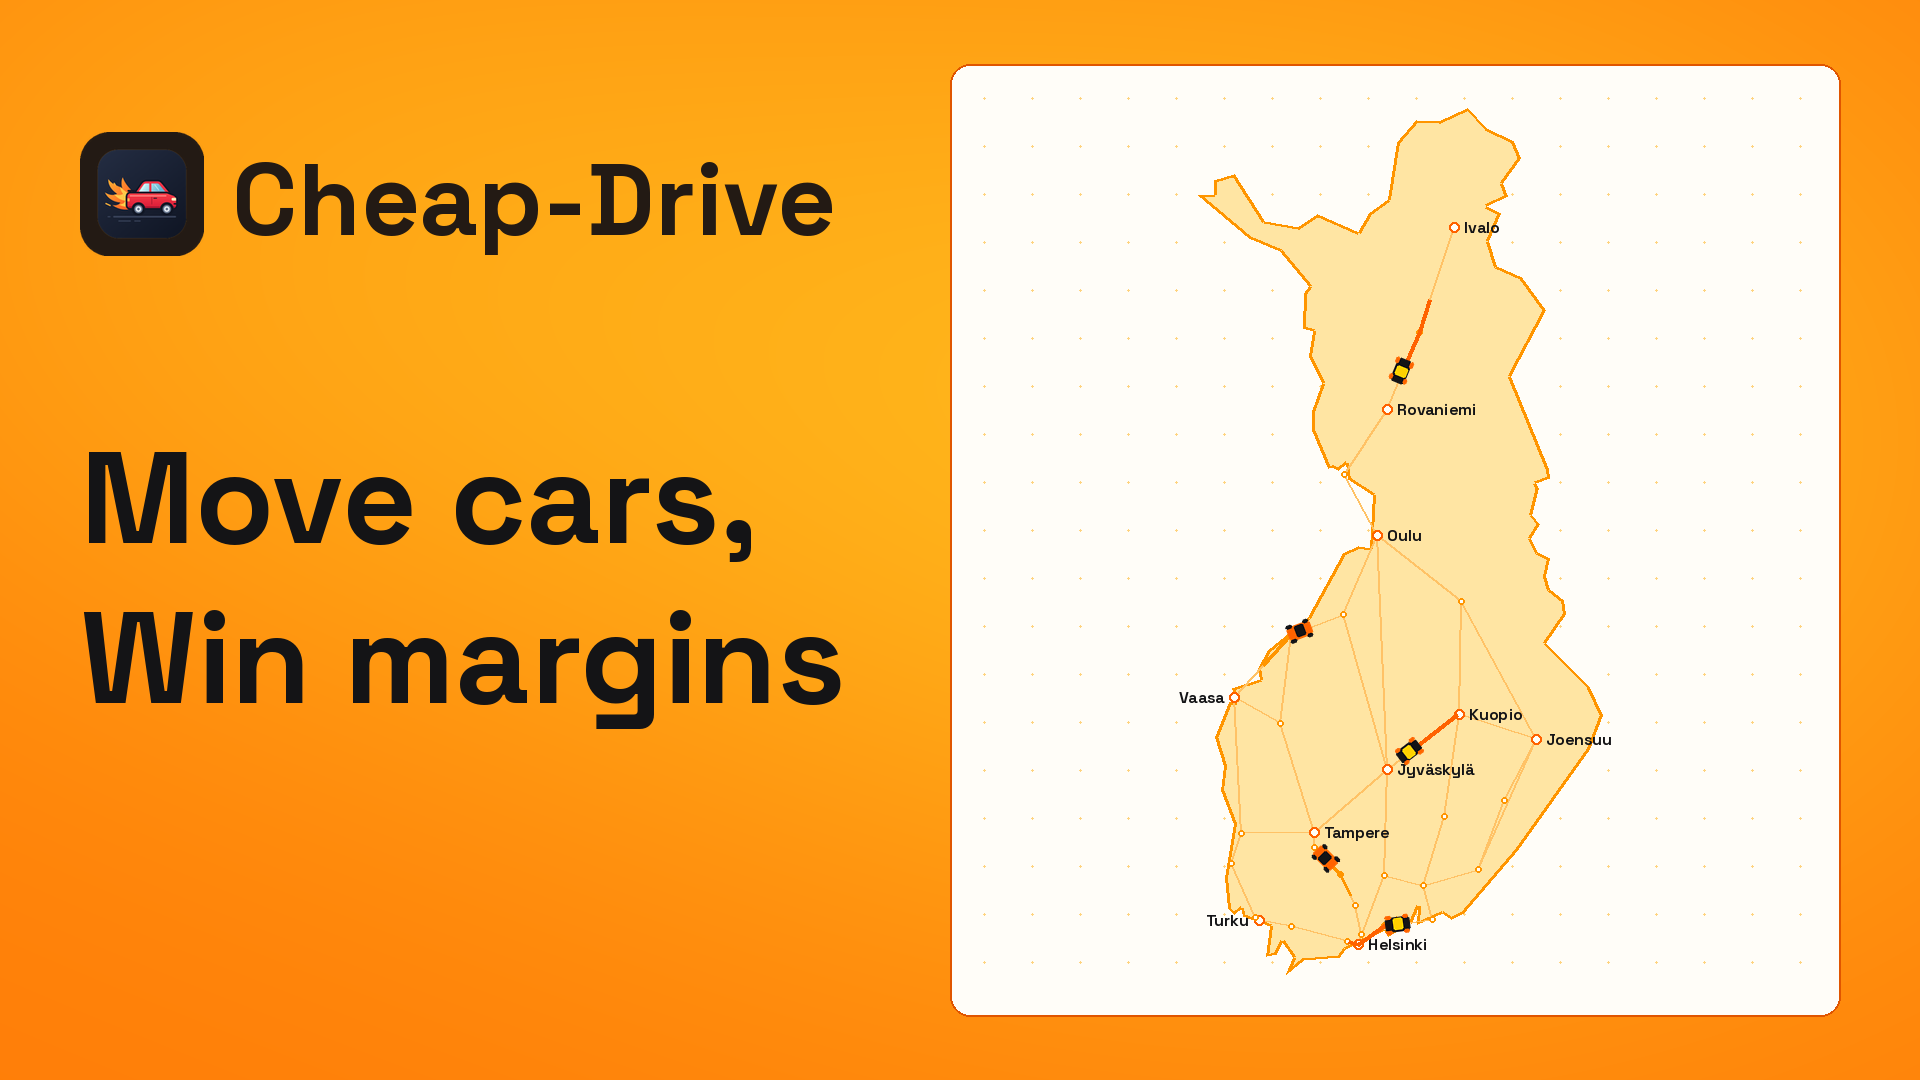
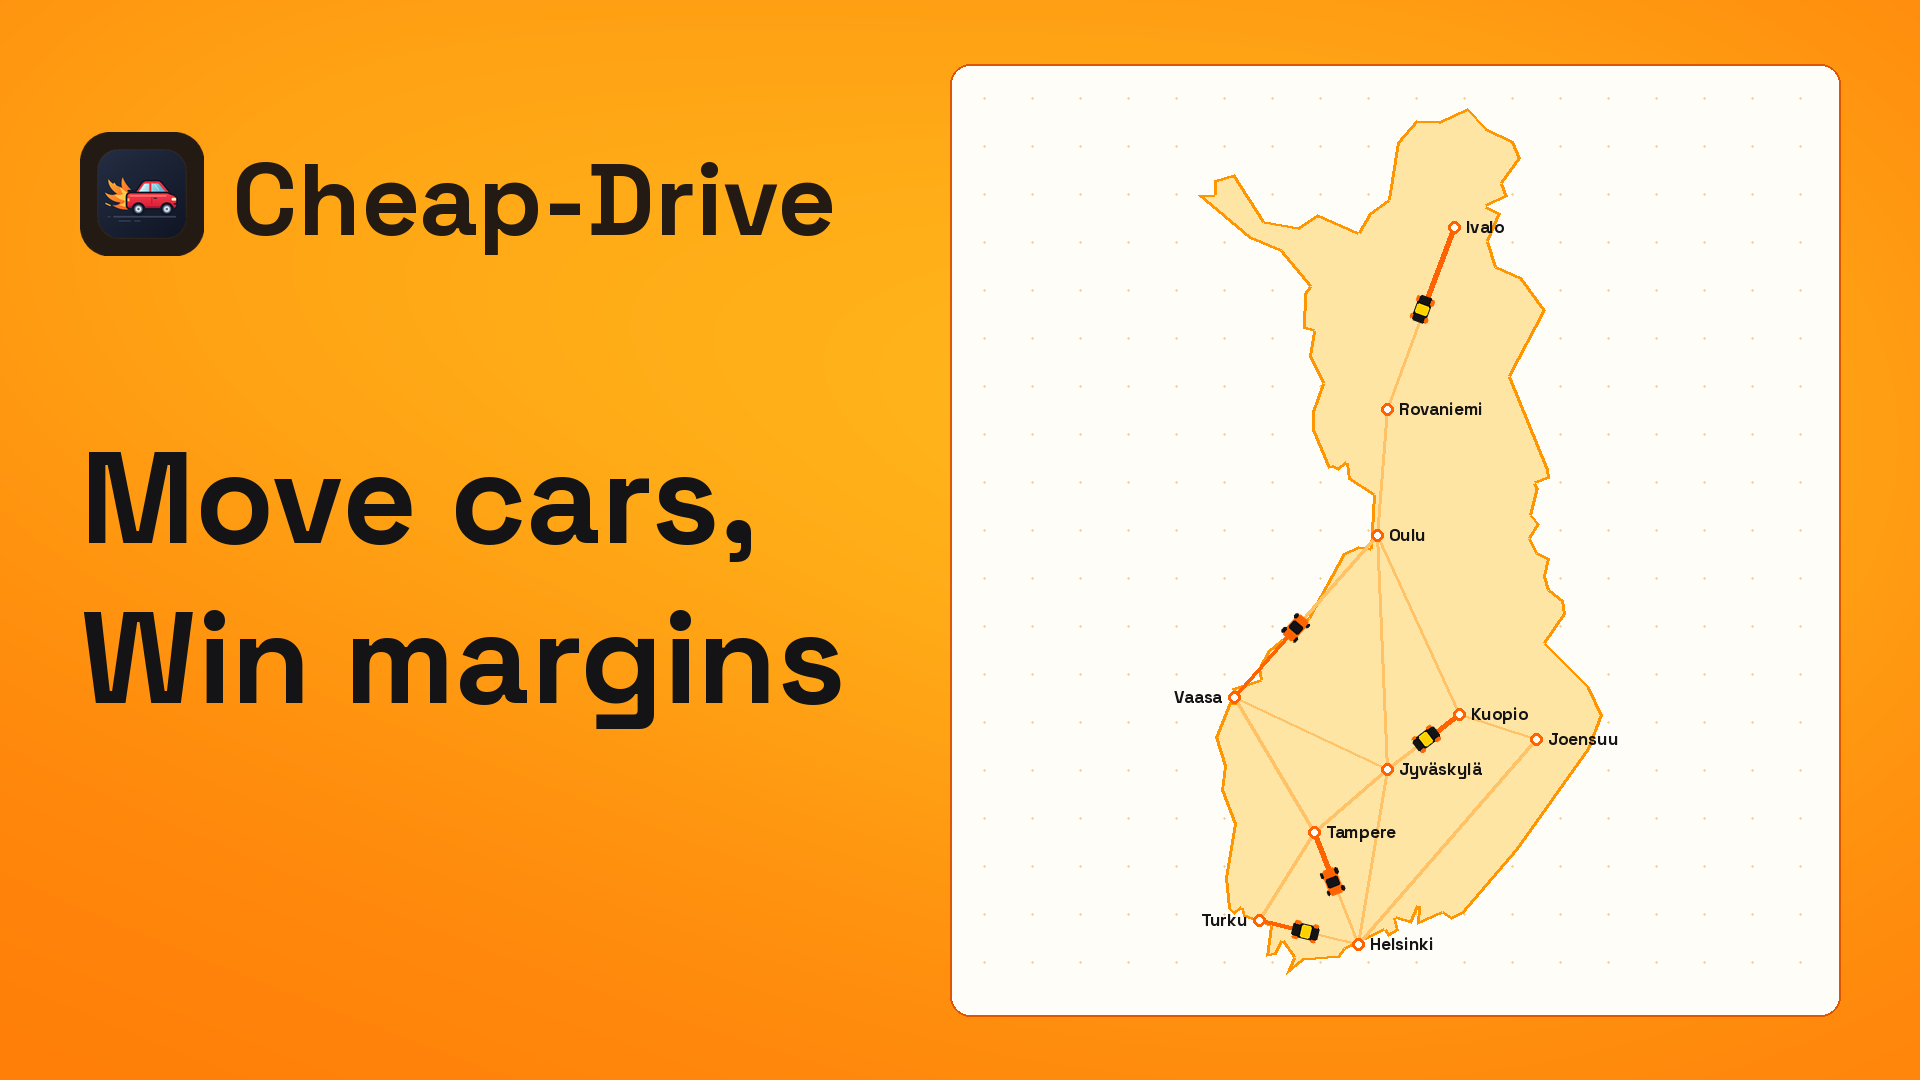
Recolor city-to-city roads from origin to car on Slide 1 and Slide 3

diff --git a/docs/demo-video/index.html b/docs/demo-video/index.html
@@ -40,8 +40,8 @@
 </head>
 <body>
   <main class="stage">
-    <video controls autoplay loop playsinline preload="auto" poster="poster.png?v=1685z" src="cheap-drive-demo.mp4?v=1685z">
-      <track kind="captions" src="captions.vtt?v=1685z" srclang="en" label="English">
+    <video controls autoplay loop playsinline preload="auto" poster="poster.png?v=1685aa" src="cheap-drive-demo.mp4?v=1685aa">
+      <track kind="captions" src="captions.vtt?v=1685aa" srclang="en" label="English">
     </video>
   </main>
 </body>

diff --git a/docs/demo-video/render.py b/docs/demo-video/render.py
@@ -261,11 +261,10 @@ MAP_NODES = [(120, 590), (280, 500), (410, 610), (530, 415), (710, 460), (810, 2
 MAP_EDGES = [(0, 1), (1, 2), (2, 3), (3, 4), (4, 5), (5, 6), (6, 7), (7, 8), (8, 1), (7, 3), (4, 9), (9, 10), (10, 11), (11, 5), (11, 4), (2, 9), (0, 2)]
 
 MAP_TRIPS = [
-    ([0, 1, 7, 6, 5, 11, 10], 0.14, 0.24, INK, True),
-    ([10, 9, 4, 3, 7, 8], 0.28, 0.27, ORANGE, True),
-    ([5, 4, 3, 2, 0], 0.42, 0.22, INK, False),
-    ([8, 1, 2, 9, 10, 11], 0.19, 0.26, ORANGE, False),
-    ([6, 7, 3, 4, 11], 0.55, 0.25, INK, False),
+    ([8, 7, 6, 5], 0.06, 0.12, INK, True),
+    ([0, 1, 3, 4], 0.08, 0.12, ORANGE, True),
+    ([2, 9, 10, 11], 0.05, 0.12, INK, False),
+    ([5, 11], 0.10, 0.11, ORANGE, False),
 ]
 
 
@@ -280,19 +279,19 @@ def network(im, t, box=(820, 100, 1840, 980), active=True, bg=CARD, border=GOLD_
             circle(im, gx, gy, 1, '#FFD480')
     for a, b in MAP_EDGES:
         line(im, [pts[a], pts[b]], '#FFC266', 2)
-    for i, p in enumerate(pts):
-        is_hub = i in [0, 5, 10, 3, 8]
-        circle(im, *p, 7 if is_hub else 5, CARD, ORANGE if is_hub else MANGO, 3 if is_hub else 2)
-    for i in [0, 5, 10, 3]:
-        p = pts[i]
-        circle(im, *p, 13 + 9 * ((t * .85 + i * .3) % 1), None, MARIGOLD, 2)
     if active:
         for t_idx, (nodes, p0, spd, c_col, is_prim) in enumerate(MAP_TRIPS):
             r_path = [pts[k] for k in nodes]
-            p = (p0 + t * spd) % 1.0
-            tail = max(0.0, p - 0.36)
-            path_segment(im, r_path, tail, p, ORANGE if is_prim else MARIGOLD, 5 if is_prim else 4, glow='#FFE066' if is_prim else None)
-            if 0.03 < p < 0.97:
+            p = clamp(p0 + t * spd)
+            path_partial(im, r_path, p, ORANGE if is_prim else MARIGOLD, 5 if is_prim else 4)
+    for i, p in enumerate(pts):
+        is_hub = i in [0, 5, 10, 3, 8]
+        circle(im, *p, 7 if is_hub else 5, CARD, ORANGE if is_hub else MANGO, 3 if is_hub else 2)
+    if active:
+        for t_idx, (nodes, p0, spd, c_col, is_prim) in enumerate(MAP_TRIPS):
+            r_path = [pts[k] for k in nodes]
+            p = clamp(p0 + t * spd)
+            if 0.02 < p < 0.98:
                 q = route_point(r_path, p)
                 ahead = route_point(r_path, min(p + .006, 1.0))
                 heading = math.degrees(math.atan2(ahead[1] - q[1], ahead[0] - q[0]))
@@ -361,27 +360,29 @@ FINLAND_PLACES = {
 }
 
 FINLAND_ROADS = [
-    ('helsinki', 'espoo'), ('espoo', 'salo'), ('salo', 'turku'), ('turku', 'raisio'),
-    ('raisio', 'rauma'), ('rauma', 'pori'), ('pori', 'vaasa'), ('vaasa', 'kokkola'),
-    ('kokkola', 'ylivieska'), ('ylivieska', 'oulu'), ('oulu', 'kemi'), ('kemi', 'rovaniemi'),
-    ('rovaniemi', 'sodankyla'), ('sodankyla', 'ivalo'),
-    ('helsinki', 'vantaa'), ('vantaa', 'hyvinkaa'), ('hyvinkaa', 'hameenlinna'),
-    ('hameenlinna', 'lempaala'), ('lempaala', 'tampere'), ('tampere', 'pori'),
-    ('tampere', 'seinajoki'), ('seinajoki', 'vaasa'), ('seinajoki', 'kokkola'),
-    ('tampere', 'jyvaskyla'), ('helsinki', 'lahti'), ('lahti', 'jyvaskyla'),
-    ('jyvaskyla', 'ylivieska'), ('jyvaskyla', 'oulu'), ('jyvaskyla', 'kuopio'),
-    ('helsinki', 'porvoo'), ('porvoo', 'kotka'), ('kotka', 'kouvola'), ('lahti', 'kouvola'),
-    ('kouvola', 'mikkeli'), ('mikkeli', 'kuopio'), ('kuopio', 'kajaani'), ('kajaani', 'oulu'),
-    ('kouvola', 'lappeenranta'), ('lappeenranta', 'savonlinna'), ('savonlinna', 'joensuu'),
-    ('lappeenranta', 'joensuu'), ('joensuu', 'kuopio'), ('joensuu', 'kajaani'),
+    ('ivalo', 'rovaniemi'),
+    ('rovaniemi', 'oulu'),
+    ('oulu', 'vaasa'),
+    ('oulu', 'jyvaskyla'),
+    ('oulu', 'kuopio'),
+    ('vaasa', 'jyvaskyla'),
+    ('vaasa', 'tampere'),
+    ('kuopio', 'joensuu'),
+    ('kuopio', 'jyvaskyla'),
+    ('joensuu', 'helsinki'),
+    ('jyvaskyla', 'tampere'),
+    ('jyvaskyla', 'helsinki'),
+    ('tampere', 'turku'),
+    ('tampere', 'helsinki'),
+    ('turku', 'helsinki'),
 ]
 
 FINLAND_TRIPS = [
-    (['ivalo', 'sodankyla', 'rovaniemi', 'kemi', 'oulu'], 0.14, 0.14, ORANGE, True),
-    (['vaasa', 'kokkola', 'ylivieska', 'oulu'], 0.08, 0.15, MARIGOLD, False),
-    (['joensuu', 'kuopio', 'jyvaskyla', 'tampere'], 0.20, 0.15, ORANGE, True),
-    (['helsinki', 'hyvinkaa', 'hameenlinna', 'lempaala', 'tampere', 'pori'], 0.12, 0.16, MARIGOLD, False),
-    (['turku', 'salo', 'espoo', 'helsinki', 'porvoo', 'kotka', 'lappeenranta'], 0.28, 0.14, ORANGE, True),
+    (['ivalo', 'rovaniemi'], 0.08, 0.17, ORANGE, True),
+    (['vaasa', 'oulu'], 0.05, 0.17, ORANGE, True),
+    (['kuopio', 'jyvaskyla'], 0.10, 0.16, ORANGE, True),
+    (['tampere', 'helsinki'], 0.06, 0.17, ORANGE, True),
+    (['turku', 'helsinki'], 0.12, 0.16, ORANGE, True),
 ]
 
 
@@ -422,30 +423,37 @@ def finland_map(im, t, box=(820, 80, 1840, 1000), zoom_south=False, bg=CARD, bor
         pu = proj(*FINLAND_PLACES[u][:2])
         pv = proj(*FINLAND_PLACES[v][:2])
         if in_box(pu) and in_box(pv):
-            line(im, [pu, pv], '#FFC266', 2)
+            line(im, [pu, pv], '#FFC266', 3)
+
+    # Recolor the road between the two cities from the origin city to the car as it goes
+    for c_idx, (corr, p0, spd, col, is_prim) in enumerate(FINLAND_TRIPS):
+        pts = [proj(*FINLAND_PLACES[pid][:2]) for pid in corr if in_box(proj(*FINLAND_PLACES[pid][:2]))]
+        if len(pts) < 2:
+            continue
+        p = clamp(p0 + t * spd)
+        path_partial(im, pts, p, ORANGE, 5)
 
     for pid, (lat, lon, name, is_major) in FINLAND_PLACES.items():
+        if not is_major:
+            continue
         pt = proj(lat, lon)
         if not in_box(pt):
             continue
-        circle(im, *pt, 5 if is_major else 3, CARD, ORANGE if is_major else MANGO, 2)
-        if is_major:
-            lx_off = -10 if pid in ('vaasa', 'turku') else 10
-            anc = 'rm' if pid in ('vaasa', 'turku') else 'lm'
-            txt(im, name, pt[0] + lx_off, pt[1], 16, INK, weight=650, anchor=anc)
+        circle(im, *pt, 6, CARD, ORANGE, 3)
+        lx_off = -12 if pid in ('vaasa', 'turku') else 12
+        anc = 'rm' if pid in ('vaasa', 'turku') else 'lm'
+        txt(im, name, pt[0] + lx_off, pt[1], 17, INK, weight=700, anchor=anc)
 
     for c_idx, (corr, p0, spd, col, is_prim) in enumerate(FINLAND_TRIPS):
         pts = [proj(*FINLAND_PLACES[pid][:2]) for pid in corr if in_box(proj(*FINLAND_PLACES[pid][:2]))]
         if len(pts) < 2:
             continue
-        p = (p0 + t * spd) % 1.0
-        tail = max(0.0, p - 0.22)
-        path_segment(im, pts, tail, p, ORANGE if is_prim else MANGO, 4 if is_prim else 3)
-        if 0.04 < p < 0.96:
+        p = clamp(p0 + t * spd)
+        if 0.02 < p < 0.98:
             q = route_point(pts, p)
             ahead = route_point(pts, min(p + 0.008, 1.0))
             heading = math.degrees(math.atan2(ahead[1] - q[1], ahead[0] - q[0]))
-            car(im, *q, color=INK if c_idx % 2 == 0 else ORANGE, scale=0.68, angle=heading)
+            car(im, *q, color=INK if c_idx % 2 == 0 else ORANGE, scale=0.72, angle=heading)
 
 
 # ---------------------------------------------------------------------------
@@ -627,7 +635,7 @@ def dispatcher(t):
         else:
             txt(im, '≥90%', x + 28, y + 104, 86, fg_acc, 700)
             txt(im, 'on time', x + 28, y + 214, 40, fg_main, 700)
-    network(im, t + 2, (1055, 236, 1840, 966))
+    network(im, t, (1055, 236, 1840, 966))
     return im
 
 
